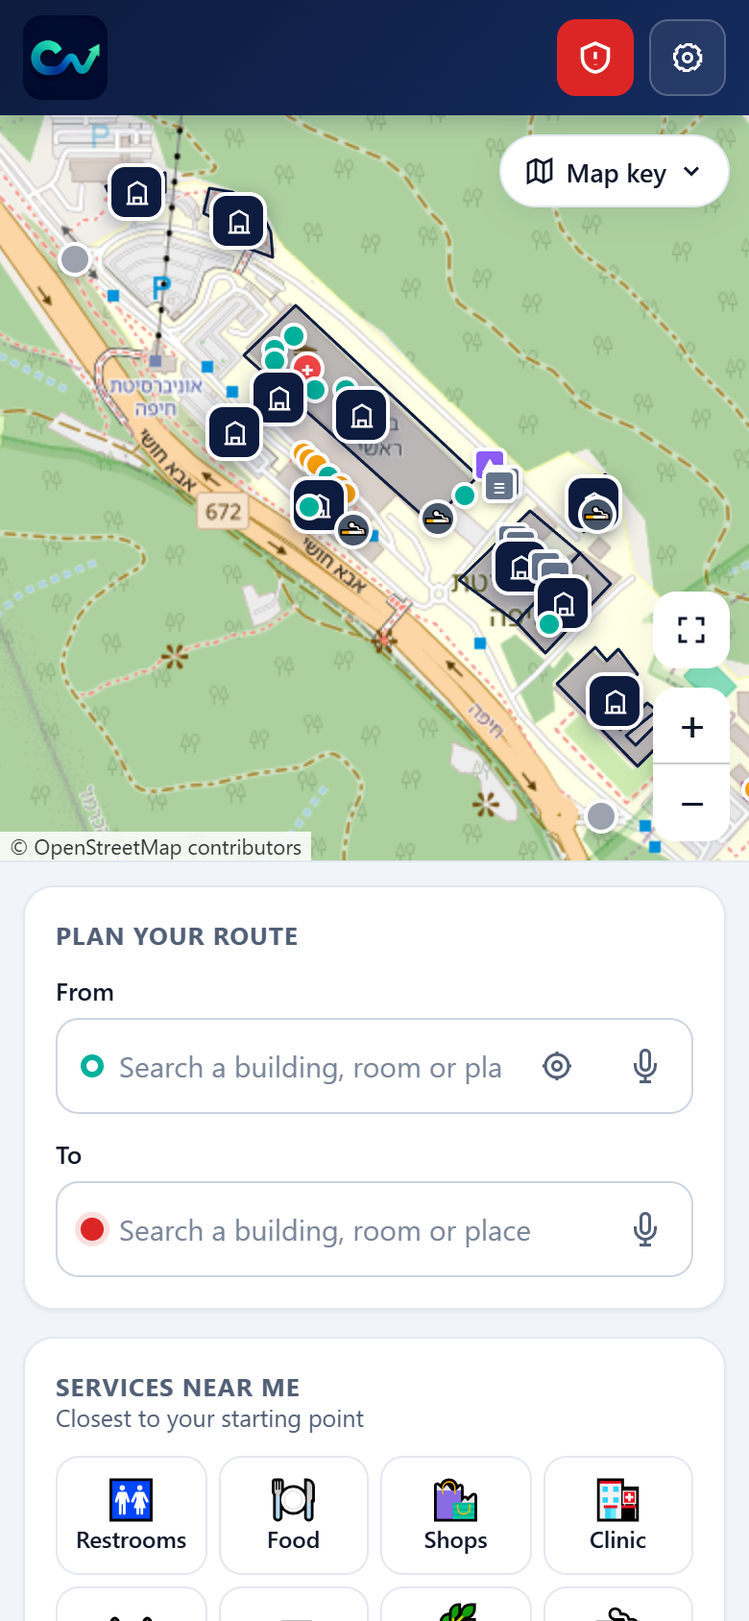
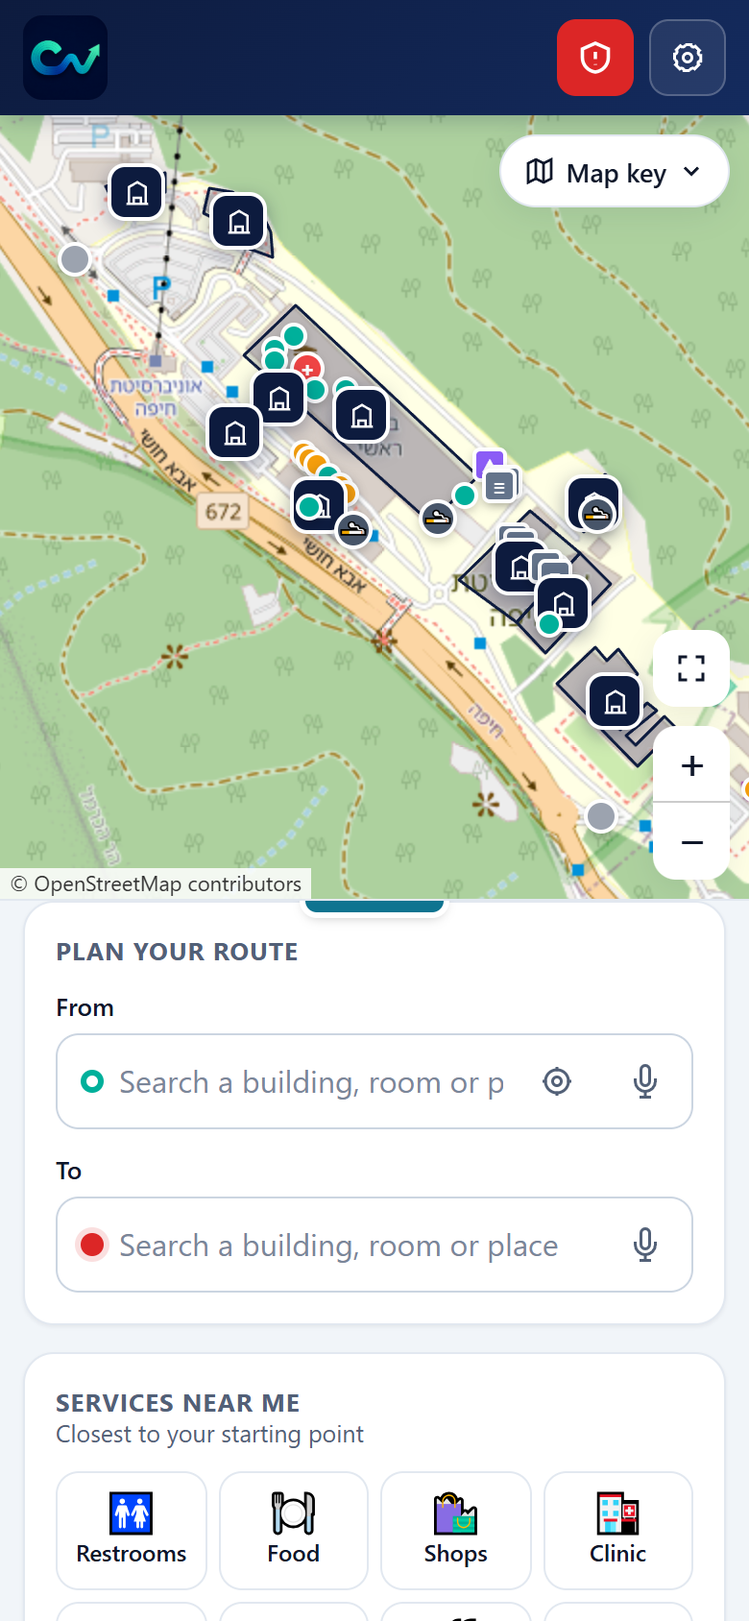
Fix-docs-followups

diff --git a/docs/02-features.md b/docs/02-features.md
@@ -26,6 +26,7 @@
 | Turn-by-turn directions | Outdoor directions such as *"Walk 100 m, then turn left near Rabin Building"*, with landmarks, stairs, and "passing X on your right" reassurance steps. |
 | Live outdoor guidance | Once a route is drawn, the app follows the phone's GPS position along it: a blue dot with a direction cone, the current step highlighted, and the next turn read aloud when the Audio Guide is on. It pauses when the location is imprecise (over 30 m) or away from the route. |
 | Phone direction strip | On a phone, the current direction and the distance to it sit in a strip at the bottom of the map. The **›** button opens the full *Directions* list; tap a step to hear it. |
+| Resizable phone panel | On a phone, the screen is split: the map on top and, below it, a panel with the route planner, route card and other panels, which scrolls on its own. Dragging the blue handle at the top of the panel snaps it to one of three sizes: collapsed (about 30% of the screen), half open (48%, the default) or expanded (everything but a 72 px strip of map). A quick flick moves one size; a plain tap does nothing. A new route opens the panel half way, and choosing a service in *Services near me* collapses it so the route shows on the map. While *From* or *To* is being typed, the panel keeps its size and returns to its earlier size afterwards. For screen readers and keyboards the handle is a button named *Resize route panel* with its current size, in all four languages; Enter or Space moves to the next size and the arrow keys move up or down. |
 | Cancel journey | **✕ Cancel journey** on the route card asks *"Cancel this journey?"* with *Yes* and *No*. |
 | Outdoor arrival screen | When the outdoor walk is the last part of the journey, **"You have arrived!"** appears with *Done* and *New route from here* (which keeps the place as the next *From*). |
 | Building popups | Each building has *Navigate here*, *Save to Favourites* and, for indoor-mapped buildings, *Report a problem*. |
@@ -56,7 +57,7 @@
 | Profile | What changes |
 |---|---|
 | **General User** | Standard fastest route. Indoors, Phone Sensors mode. |
-| **Mobility** (wheelchair / crutches) | Outdoor routes exclude steps. Entrances that need stairs are not used. Indoor routes use elevators only. The Rabin ↔ Terrace transfer always uses the shared elevator. Indoors, Manual / Wheelchair mode (tap *I reached the next point*) is used and step-free routing is locked on. Outdoor walking time is estimated at 0.8 m/s instead of 1.2 m/s. If no step-free route is mapped, the app says so instead of drawing an unsafe line. |
+| **Mobility** (wheelchair / crutches) | Outdoor routes exclude steps. Entrances that need stairs are not used. Indoor routes use elevators only. Indoors, Manual / Wheelchair mode (tap *I reached the next point*) is used and step-free routing is locked on. Outdoor walking time is estimated at 0.8 m/s instead of 1.2 m/s. If no step-free route is mapped, the app says so instead of drawing an unsafe line. |
 | **Visual Impairment** | Turns High Contrast and the Audio Guide on (both can be switched off in Settings). Adds **Plan route by voice**: spoken questions and answers for the start and destination, with **Stop voice planning** while it runs; choosing the profile in Settings starts it straight away. On Android phones it vibrates once before each turn, twice for a floor change and three times on arrival. Routes are the same as General User. |
 | **Spatial / Navigation** | Prefers routes with fewer turns: each turn of 35° or more costs the same as 6 extra metres of walking. Applied both outdoors and indoors. Indoor instructions count down to the next point, e.g. *"Turn left, then continue · about 12 m, then turn right"*. |
 | **Sensory & Wellbeing Support** | Prefers quieter outdoor paths: paths through areas marked noisy or crowded in the live campus status count as five times longer (not for shelter routes). Adds **🌿 I need a break**, which routes straight to the nearest reachable rest space. The *Quiet spaces* service button is called **Rest Spaces**. |
@@ -112,7 +113,7 @@ Tapping an active button again cancels it.
 | Hand-off at the exit | Reaching the exit of the origin building shows *"You reached the exit"* with **Continue outdoors →** (back to the campus map with the outdoor leg drawn and live guidance running) or *Cancel journey*. |
 | Continue indoors | **Continue indoors →** appears when the phone is within about 25 m of the destination entrance. If the location is unavailable, it appears with the hint *"Tap Continue indoors when you reach the entrance."* |
 | Same-building routing | If start and destination are in the same building, there is no outdoor leg; *Start indoor route* opens indoor navigation straight away. |
-| Rabin ↔ Terrace shared transfer | These buildings connect directly: by stairs (Rabin floor 5 ↔ Terrace floor 4), or by the shared elevator for step-free routes. No outdoor leg is needed. At the connection the app shows *"You reached the connection"* with **Continue →**. |
+| Rabin ↔ Terrace shared transfer | These buildings connect directly through a shared elevator (Rabin floor 5 ↔ Terrace floor 4), which every profile uses. No outdoor leg is needed. At the elevator the app shows **Enter the shared elevator** with **✓ I entered the elevator**, then continues on the next building's floor plan. While the shared elevator is out of service in either building (in the live status, or reported by the user in the last 24 hours), no journey uses it: trips between Rabin and Terrace go outdoors between the two buildings, and Main ↔ Terrace takes the normal outdoor route. |
 | Main ↔ Terrace chain | Main floor 600 → bridge → Rabin → shared connection (elevator for step-free routes, otherwise stairs) → Terrace. |
 | Shared-elevator continuity | A pending elevator ride is kept when the app switches from one building's floor plan to the next, so the user only confirms "I exited on Floor X". |
 | Journey resume | If the page is reloaded mid-journey, the outdoor leg is rebuilt from the saved journey state. |

diff --git a/docs/10-testing.md b/docs/10-testing.md
@@ -24,6 +24,7 @@ Administrators can also run the same suite from the admin screen: **Tests → Ru
 
 | Date | Node.js | Tests | Passed | Failed | Duration |
 |---|---|---|---|---|---|
+| 2026-10-11 (`main` at `1558574`, 39 files) | 24.20.0 | 542 | 542 | 0 | about 20 s |
 | 2026-10-11 (`main` at `5b2d9d5`, 39 files) | 24.20.0 | 539 | 539 | 0 | about 18 s |
 | 2026-10-09 (admin screen branch) | 24.20.0 | 320 | 320 | 0 | about 7.5 s |
 | 2026-10-07 (commit `521863b`) | 22.22.0 | 171 | 171 | 0 | about 1.7 s |
@@ -47,7 +48,7 @@ Administrators can also run the same suite from the admin screen: **Tests → Ru
 | `admin-server.test.cjs` | 17 | The PC server: first administrator, hashed passwords, sessions and roles, reports and usage counts, saving the status with a backup, what it refuses to serve (database, server code, other host names), the admin page's security policy, markup removal, and the **Tests** page runner |
 | `admin-status-tools.test.cjs` | 8 | Status-file validation, roles, active and scheduled entries, data health (the Terrace step-free gap) and the impact of outages and closures |
 | `arabic-building-labels.test.cjs` | 1 | Arabic building names with the Hebrew name in brackets |
-| `building-journeys.test.cjs` | 177 | Generated for every building and profile: same-floor and cross-floor routes in all six buildings, complete building-to-building journeys, the Terrace ↔ Rabin shared elevator, the Main ↔ Rabin bridge, entrance choice that includes the indoor leg, elevators out of service, no invented straight-line route, both gates reaching every mapped building |
+| `building-journeys.test.cjs` | 179 | Generated for every building and profile: same-floor and cross-floor routes in all six buildings, complete building-to-building journeys, the Terrace ↔ Rabin shared elevator and journeys around it while it is out of service, the Main ↔ Rabin bridge, entrance choice that includes the indoor leg, elevators out of service, no invented straight-line route, both gates reaching every mapped building |
 | `campus-reachability.test.cjs` | 5 | Every building from both gates (General and Mobility); every entrance on the path network; indoor destinations reachable from an entrance; dead-end routes answered quickly |
 | `campus-status-admin.test.cjs` | 8 | Name corrections and announcements from the status file; reports and counts go to the PC server, to the cloud inbox, or wait on the device; markup removed from names |
 | `cloud-inbox.test.cjs` | 10 | Allowed sites, rate limits without storing addresses, daily counts, the sync key, clean-up, the round trip with the PC server without losing or double counting, storage and daily caps |
@@ -56,7 +57,7 @@ Administrators can also run the same suite from the admin screen: **Tests → Ru
 | `heading-tracker.test.cjs` | 28 | Compass calibration; relative vs iOS headings; invalid, stale and oscillating readings; reverse detection; 0°/360° wrap-around; posture and rotation changes |
 | `journey-transition.test.cjs` | 10 | Resuming Main → Rabin after a reload; room destinations wait for arrival before indoor navigation; rebuilding the outdoor leg from stored contexts; persistent preferences; the user continues outdoors after the origin leg; *New route from here* and *Done* after arriving indoors |
 | `live-status-publishing.test.cjs` | 7 | Only the PC can publish the live status; retry when the inbox is down; the public site shows what was published without a commit; the status file as the fallback; the PC's file when the app is opened from the PC server; markup removed |
-| `live-status-routing.test.cjs` | 13 | Outage and closure dates; elevator number matching; the user's own reports (24 h) and rest-space reports (2 h); the indoor page, the campus planner and the outdoor router obeying outages, closures, no-go zones and the outdoor elevator |
+| `live-status-routing.test.cjs` | 14 | Outage and closure dates; elevator number matching; the user's own reports (24 h) and rest-space reports (2 h); the indoor page, the campus planner and the outdoor router obeying outages, closures, no-go zones and the outdoor elevator; the indoor page not offering the shared elevator while either building lists it out |
 | `location-sharing.test.cjs` | 3 | *Share my location* from the sidebar; links accepted only inside the University of Haifa area; a one-time position snapshot |
 | `map-data-integrity.test.cjs` | 7 | Graph building keys, node types and positions; unique ids and same-floor connections; campus entrances and places linked to real nodes; everything on campus; a floor plan for every mapped floor |
 | `map-marker-names.test.cjs` | 3 | Every map marker has a name that screen readers announce, kept after icon changes and refreshed when the language changes |
@@ -82,7 +83,7 @@ Administrators can also run the same suite from the admin screen: **Tests → Ru
 | `step-integration.test.cjs` | 41 | End-to-end indoor navigation: calibration gating, step animation queue, arrival confirmed by the user in Phone Sensors mode, tap-to-confirm when motion permission is refused or no readings arrive, stairs confirmation, mode switching, background and rotation, wheelchair checkpoints, Spatial elevator guidance, shared-elevator ride restore, reject and exit, Auto mode floor skipping |
 | `student-graph-source.test.cjs` | 9 | The campus page loads all six JSON graphs; the pages and the service worker use the same graph files; no stale suggestions; Main floor 600 updates; Rabin–Terrace transfer nodes; Student House graph connectivity and room search |
 | `wheelchair-navigation.test.cjs` | 6 | Checkpoint simplification, turns and elevator boundaries, multi-floor rides, noise tolerance, going back, distance excluding vertical travel |
-| **Total (39 files)** | **539** | |
+| **Total (39 files)** | **542** | |
 
 ## 5. Not covered by automated tests
 

diff --git a/docs/06-user-flows.md b/docs/06-user-flows.md
@@ -82,14 +82,14 @@ stateDiagram-v2
     Planning --> Outdoor: start is outdoors
 
     Origin --> Outdoor: reached exit,<br/>"Continue outdoors"
-    Origin --> SharedTransfer: Rabin ↔ Terrace<br/>shared stairs / elevator
+    Origin --> SharedTransfer: Rabin ↔ Terrace<br/>shared elevator
 
     Outdoor --> Intermediate: Main → Terrace chain<br/>(pass through Rabin)
     Outdoor --> Destination: "Continue indoors"
     Outdoor --> [*]: destination is a building<br/>or outdoor place
 
     Intermediate --> SharedTransfer
-    SharedTransfer --> Destination: ride / walk into<br/>next building
+    SharedTransfer --> Destination: elevator ride into<br/>next building
 
     SameBuilding --> Arrived
     Destination --> Arrived
@@ -105,7 +105,7 @@ stateDiagram-v2
 | Room → building | indoor (*origin*) → outdoor |
 | Room → room, different buildings | indoor (*origin*) → outdoor → indoor (*destination*) |
 | Room → room, same building | indoor (*same-building*) |
-| Rabin ↔ Terrace | indoor → shared stairs or elevator → indoor (no outdoor leg) |
+| Rabin ↔ Terrace | indoor → shared elevator → indoor (no outdoor leg; outdoors while the elevator is out of service) |
 | Main → Terrace | Main indoor → bridge → Rabin (*intermediate*) → shared elevator → Terrace (*destination*) |
 
 ## 4. Indoor navigation modes
@@ -176,14 +176,16 @@ The arrival dialog never moves on by itself. At the destination it offers **Done
 
 ## 5. Shared-elevator crossing (Rabin ↔ Terrace)
 
-Rabin floor 5 and Terrace floor 4 share an elevator and a stair connection. A step-free route between them uses the elevator:
+Rabin floor 5 and Terrace floor 4 share an elevator, which journeys between the two buildings use for every profile:
 
 1. The route in the first building ends at the shared elevator. The banner shows **Enter the shared elevator** with the button **✓ I entered the elevator**.
 2. CampusWay saves the pending ride (`campusway.pendingSharedElevatorRide`) and opens the second building's floor plan.
 3. The second page restores the ride and shows **Stay in the elevator until Floor X**, with **✓ I exited on Floor X**.
 4. Navigation continues in the second building in the same mode.
 
-On the way from Main Building to Terrace, the journey passes through Rabin: Main floor 600 → outdoor bridge → Rabin floor 7 entrance → Rabin floor 5 (the shared elevator for step-free routes, otherwise the stairs connection) → Terrace floor 4. Trips that leave Terrace through Rabin use the same *intermediate* stage in the other direction.
+On the way from Main Building to Terrace, the journey passes through Rabin: Main floor 600 → outdoor bridge → Rabin floor 7 entrance → Rabin floor 5 (the shared elevator) → Terrace floor 4. Trips that leave Terrace through Rabin use the same *intermediate* stage in the other direction.
+
+While the shared elevator is out of service in either building (in the live status, or reported by the user in the last 24 hours), no journey uses it: trips between Rabin and Terrace go outdoors between the two buildings, and Main ↔ Terrace takes the normal outdoor route. The indoor page also checks this when the first leg ends at the elevator, so a journey planned before the outage does not send the user into it.
 
 ## 6. Nearest shelter
 

diff --git a/docs/07-routing-and-navigation-algorithms.md b/docs/07-routing-and-navigation-algorithms.md
@@ -131,8 +131,9 @@ This is an approximation. Floor plans of different real sizes give proportionall
 2. **Score every exit × entrance pair**: indoor time from the start room to the exit plus the outdoor route time. When the start is outdoors, entrances are compared by outdoor time alone. The destination-side indoor walk is not part of the choice; it is added afterwards to the ETA that is shown.
 3. **Choose the cheapest pair**, draw the outdoor route, and store the chosen exit and entrance for the indoor page.
 4. **Special connections** replace the outdoor leg where buildings connect directly:
-   - *Rabin ↔ Terrace*: stairs (Terrace floor 4 ↔ Rabin floor 5) or the shared elevator. The Mobility profile always uses the elevator. Otherwise, when the exact start and destination rooms are known, both options are compared by ETA; if not, the stairs connection is used.
-   - *Main ↔ Terrace*: Main floor 600 exit → bridge → Rabin floor 7 → Rabin floor 5 (elevator for step-free trips, otherwise the stairs connection) → Terrace floor 4.
+   - *Rabin ↔ Terrace*: the shared elevator (Terrace floor 4 ↔ Rabin floor 5), for every profile.
+   - *Main ↔ Terrace*: Main floor 600 exit → bridge → Rabin floor 7 → Rabin floor 5 → shared elevator → Terrace floor 4.
+   - While the shared elevator (elevator 1 in both buildings' graphs) is out of service in either building's live status, or the user reported it in the last 24 hours, `sharedElevatorOutOfService()` turns both connections off: Rabin ↔ Terrace is planned like any other pair of buildings, with an outdoor leg, and Main ↔ Terrace takes the normal outdoor route. If the Mobility profile then has no step-free route, the app says so.
    - From Terrace to other buildings, leaving directly is compared with leaving through Rabin, and the cheaper option wins.
 5. **Building-pair rules.** A few pairs use fixed exits or entrances hard-coded in `routeTo()`, e.g. Main → Eshkol / Welfare / Bloom / Arts uses Main's primary exit, Rabin → Main uses the floor 7 bridge exit, and Terrace → Main uses Main's floor 600 entrance.
 
@@ -144,7 +145,7 @@ This is an approximation. Floor plans of different real sizes give proportionall
 | Indoor walking | distance ÷ 1.2 m/s (all profiles) |
 | Elevator ride | 30 s waiting + 10 s per floor |
 | Stairs | 30 s per floor |
-| Rabin ↔ Terrace shared transfer | 40 s (elevator) or 30 s (stairs) |
+| Rabin ↔ Terrace shared elevator | 40 s |
 | Display | Campus map: minutes, rounded, at least 1 ("3 min walk"); hours with one decimal above 60 minutes. Indoor page: minutes rounded up, at least 1 |
 
 For the nearest-shelter search, an unreachable outdoor leg is estimated as straight-line distance × 1.3, and an unknown indoor leg adds 60 s.

diff --git a/CHANGELOG.md b/CHANGELOG.md
@@ -2,6 +2,25 @@
 
 The development history of CampusWay, grouped by milestone and summarised from the Git commit history. CampusWay is deployed continuously from `main`; the service-worker cache name (`campusway-vNN-…`) changes with each release (currently `campusway-v68-fresh-maps`).
 
+## 2026-10-11 (evening) · Smoke-test fixes, phone panel and documentation
+
+**Added**
+- A resizable route panel on phones: drag the blue handle to make the panel collapsed, half open or expanded; choosing a service in *Services near me* collapses it so the route shows on the map (by Jasmin, `2996f11`).
+- [18 · Data, servers and offline use](docs/18-data-servers-and-offline.md): what is stored on the phone, in the cloud inbox and on the PC, and how (#21).
+
+**Changed**
+- On phones, the panel keeps its size while *From* or *To* is being typed and the inputs use 16 px text, so the page no longer zooms in or jumps when the keyboard opens (`1558574`).
+- The documentation was brought up to date with the app: four languages, the Sensory & Wellbeing Support profile name, the automatic indoor mode, the service worker, recomputed map statistics, new features, diagrams and all screenshots (#21).
+- Correctly sized install icons for Android and iPhone, with navy corners (#20).
+
+**Fixed**
+- While the shared Rabin ↔ Terrace elevator is out of service, journeys go around it outdoors instead of using it (#20).
+- Trips inside one building show one journey stage; a new route no longer reuses the start room of an unfinished journey; *Services near me* puts the chosen service in *To* (#20).
+- Phone layout: the zoom buttons sit above the direction strip, the directions list opens below *Map key*, and a new indoor route is zoomed to fit (#20).
+- The indoor page opened directly (bookmark, QR code) shows the room search instead of a dead end (#20).
+- Russian route titles, the gym and library names, *Stop voice planning* shown only while voice planning runs, and debug messages removed from the console (#20).
+- The docs no longer claim there is no server or that reports stay on the device (#21). The suite has 542 tests in 39 files, all passing.
+
 ## 2026-10-11 · Arrival screen, vibration, screen-reader names and fresh maps
 
 **Added**

diff --git a/docs/04-requirements.md b/docs/04-requirements.md
@@ -65,7 +65,7 @@ The indoor mode is chosen automatically, not by the user: the Mobility profile g
 |---|---|---|
 | FR-28 | The system shall support journeys from a room in one building to a room in another, split into indoor, outdoor and indoor legs. | ✅ |
 | FR-29 | On leaving the origin building, the system shall return to the campus map with the outdoor leg ready. | ✅ in every mode, after the user confirms the exit (*Continue outdoors*) |
-| FR-30 | The system shall support the direct indoor transfer between Rabin and Terrace buildings (stairs or shared elevator). | ✅ |
+| FR-30 | The system shall support the direct indoor transfer between Rabin and Terrace buildings (shared elevator), and route around it while it is out of service. | ✅ |
 | FR-31 | A journey shall survive a page reload. | ✅ |
 
 ### 1.6 Services, safety and sharing
@@ -103,7 +103,7 @@ The indoor mode is chosen automatically, not by the user: the Mobility profile g
 | NFR-09 | Security | Served over HTTPS (required for sensors, microphone, clipboard and service worker). | ✅ (GitHub Pages) |
 | NFR-10 | Portability | Runs in current Chromium-based browsers and Safari on Android, iOS, Windows and macOS without installation. | ✅ |
 | NFR-11 | Maintainability | Indoor maps are data files (JSON) edited with a visual tool; shared logic lives in standalone modules covered by automated tests. | 🟡 much of the journey logic is still inline in the HTML pages |
-| NFR-12 | Testability | Core algorithms and journey hand-offs have automated tests that run with plain Node.js. | ✅ 539 tests in 39 files, all passing (`node --test tests/*.test.cjs`) |
+| NFR-12 | Testability | Core algorithms and journey hand-offs have automated tests that run with plain Node.js. | ✅ 542 tests in 39 files, all passing (`node --test tests/*.test.cjs`) |
 | NFR-13 | Deployability | No build step; the app can be served as-is by any static web server. The cloud inbox and the admin PC server are separate and optional for navigation. | ✅ |
 
 ## 3. User device and browser requirements

diff --git a/docs/images/screenshots/README.md b/docs/images/screenshots/README.md
@@ -1,6 +1,6 @@
 # Screenshots
 
-Screenshots of CampusWay taken on 11 October 2026 from branch `Fix-docs-data-and-servers` (based on `main` at `5b2d9d5`). They are used throughout the documentation and can be reused in reports and presentations.
+Screenshots of CampusWay taken on 11 October 2026 from branch `Fix-docs-data-and-servers` (based on `main` at `5b2d9d5`). The five phone screenshots were retaken the same day from `main` at `1558574`, with the resizable phone panel. They are used throughout the documentation and can be reused in reports and presentations.
 
 **How they were taken:** headless Chrome, desktop at 1440 × 900 and phone at 390 × 844 (2× pixel density), with the service worker disabled. The app was served by `server/campusway-server.js` with a throwaway database, and the simulated GPS position was on campus. The OpenStreetMap street tiles were online, so the campus map shows the street map under the building outlines. Indoor journeys marked *demo* used `?demo=1`, which simulates walking.
 
@@ -43,8 +43,8 @@ Screenshots of CampusWay taken on 11 October 2026 from branch `Fix-docs-data-and
 
 | File | Shows |
 |---|---|
-| `mobile-01-home.png` | Campus screen on a phone |
-| `mobile-02-route.png` | Route on a phone: map with the direction strip |
+| `mobile-01-home.png` | Campus screen on a phone: the map on top and the route planner in the panel below it, with the blue resize handle |
+| `mobile-02-route.png` | Route Student House → Main Building on a phone: map with the direction strip, and the route card in the half-open panel |
 | `mobile-03-route-directions.png` | Route on a phone with the directions list opened from the direction strip |
 | `mobile-04-indoor.png` | Indoor route in Main Building (room 705 → 716, Spatial profile) on a phone, ready to start |
 | `mobile-05-indoor-navigating.png` | Auto navigation (demo) in progress on a phone |

diff --git a/docs/12-accessibility.md b/docs/12-accessibility.md
@@ -44,7 +44,7 @@ The profile is chosen in the two-step first-run setup (language, then profile) a
 | Outdoor paths | All `steps` edges (OpenStreetMap and hand-mapped stairs) |
 | Building entrances | Entrances marked `requiresStairs` or `avoidForMobility` |
 | Indoor graph | Every stairs node and every stair link between floors |
-| Building transfers | Rabin ↔ Terrace uses the shared elevator (Rabin floor 5 ↔ Terrace floor 4), for every profile |
+| Building transfers | Rabin ↔ Terrace uses the shared elevator (Rabin floor 5 ↔ Terrace floor 4), for every profile; while it is out of service, journeys go around it outdoors |
 | Live status | Elevators reported out of service (official status or user reports) |
 
 When the filtered graph has no path, the user sees *"No step-free outdoor route found"* or *"No step-free route found"*, and the ETA shows "—". Automated tests check that no fallback line is drawn in this case.
@@ -87,7 +87,6 @@ When the filtered graph has no path, the user sees *"No step-free outdoor route 
 
 - Accessibility depends on how complete and accurate the mapping is. A calculated route does not check current conditions (construction, crowds, a broken door) unless they are entered in the live status or reported.
 - Some areas have no step-free connection mapped, e.g. Terrace Building floors 0 and −1 have no mapped elevator.
-- A reported outage of the shared Rabin ↔ Terrace elevator is not yet applied to the transfer between the two buildings: journeys between them still use it.
 - Phone Sensors mode is an estimate. It does not detect leaving the route, and it is not recommended for wheelchair use (Manual mode is used instead).
 - Vibration works only in Android browsers; iPhones do not support it, so it only adds to the spoken and on-screen guidance.
 - In Arabic, food places and shops are shown with their Hebrew names.

diff --git a/docs/14-limitations-and-future-work.md b/docs/14-limitations-and-future-work.md
@@ -13,7 +13,6 @@
 | Phone must be held upright in portrait | Position updates pause when the phone is pocketed or tilted | The heading is only reliable in this posture |
 | Walking backwards without turning around is not supported | Steps are treated as ambiguous | Direction comes from the phone's heading |
 | Live outdoor guidance depends on GPS accuracy | Guidance pauses while the position is less accurate than 30 m; when the user leaves the route the app says so, but it does not plan a new route | Phone GPS is often imprecise between buildings |
-| The shared Rabin ↔ Terrace elevator is always used for that transfer | A reported outage of that elevator is not applied to journeys between the two buildings | The transfer is a fixed connection between the two graphs |
 
 ### Map data and coverage
 
@@ -50,7 +49,7 @@
 
 - [ ] Finish the Multi-Purpose Building graph (floors −1, 0 and 2, connector IDs).
 - [ ] Map an elevator for Terrace floors 0 and −1, or document the step-free alternative.
-- [ ] Apply a reported outage of the shared Rabin ↔ Terrace elevator to journeys between the two buildings.
+- [x] Apply a reported outage of the shared Rabin ↔ Terrace elevator to journeys between the two buildings (they go around it outdoors).
 - [x] Arabic names for buildings (food places and shops still to do).
 - [x] Remember language, profile, high contrast, the audio guide and text size between visits.
 - [x] Load the JSON graphs directly; the JS graph copies are no longer used by the app.

diff --git a/docs/15-glossary.md b/docs/15-glossary.md
@@ -49,7 +49,7 @@
 | **Schedule reminders** | Optional class timetable in Settings. While CampusWay is open, a reminder appears up to 15 minutes before a saved class and starts the route to it. |
 | **Sensory & Wellbeing Support** | The profile for people who need a quiet break or feel overwhelmed (formerly *Mental Health Support*; internal id `mental`). It prefers quieter paths and suggests rest spaces. |
 | **Service worker** | Background script that caches the app for offline use (`service-worker.js`). |
-| **Shared transfer** | The direct indoor connection between Rabin floor 5 and Terrace floor 4, by stairs or the shared elevator. |
+| **Shared transfer** | The direct indoor connection between Rabin floor 5 and Terrace floor 4 through the shared elevator. Not used while that elevator is out of service. |
 | **Shelter** | A protected space (ממ"ד / מקלט), mapped as `shelter` nodes and used by Nearest shelter. |
 | **Snapping** | Moving a start or end point to the nearest node of the path network. |
 | **Step-free route** | A route with no stairs; required by the Mobility profile. |

diff --git a/docs/03-user-guide.md b/docs/03-user-guide.md
@@ -40,7 +40,7 @@ Both choices are saved on your device, so next time CampusWay opens straight on 
 | Favourites | Your saved places |
 | Map | Buildings (dark markers), gates, food (green), shops (orange), clinic (red +), elevators, stairs, smoking areas and the outdoor shelter (🛡). Use **Map key** to see the legend. |
 
-On a phone the map is at the top and the panels are below it; scroll down to see them.
+On a phone the map is at the top and the route planner and the other panels are in a panel below it; scroll inside the panel to see them. To change its size, drag the blue handle at the top of the panel: up to see more of the panel (up to almost the whole screen), down to see more of the map. A new route opens the panel half way, and choosing a service in **Services near me** makes it small so you can see the route on the map.
 
 ## 4. Plan a route
 

diff --git a/docs/01-project-overview.md b/docs/01-project-overview.md
@@ -66,7 +66,7 @@ This is hardest for:
 | Interface languages | 4 (English, Hebrew, Arabic, Russian) |
 | Accessibility profiles | 5 |
 | Indoor navigation modes | 3 (Auto, Phone Sensors, Manual / Wheelchair), chosen automatically |
-| Automated tests | 539 in 39 test files, all passing |
+| Automated tests | 542 in 39 test files, all passing |
 
 ## How it works at a glance
 
